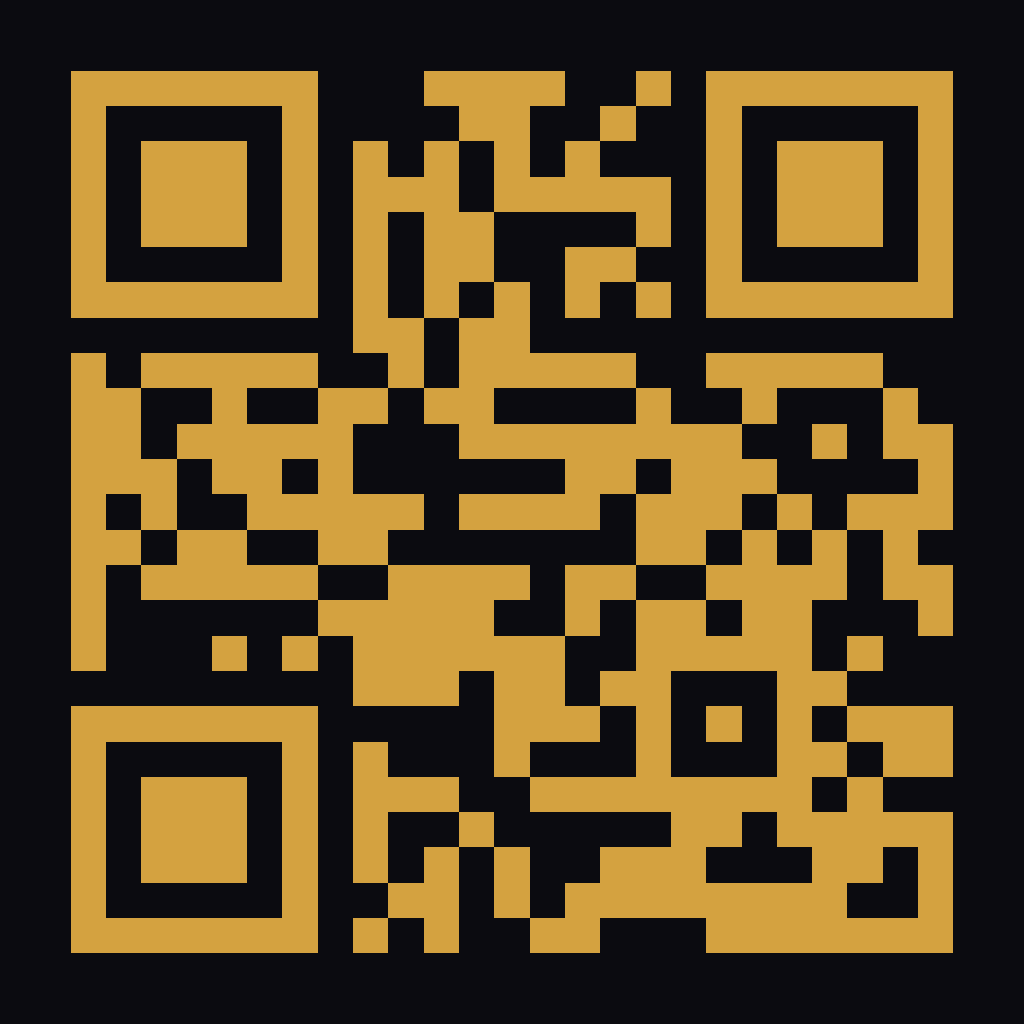
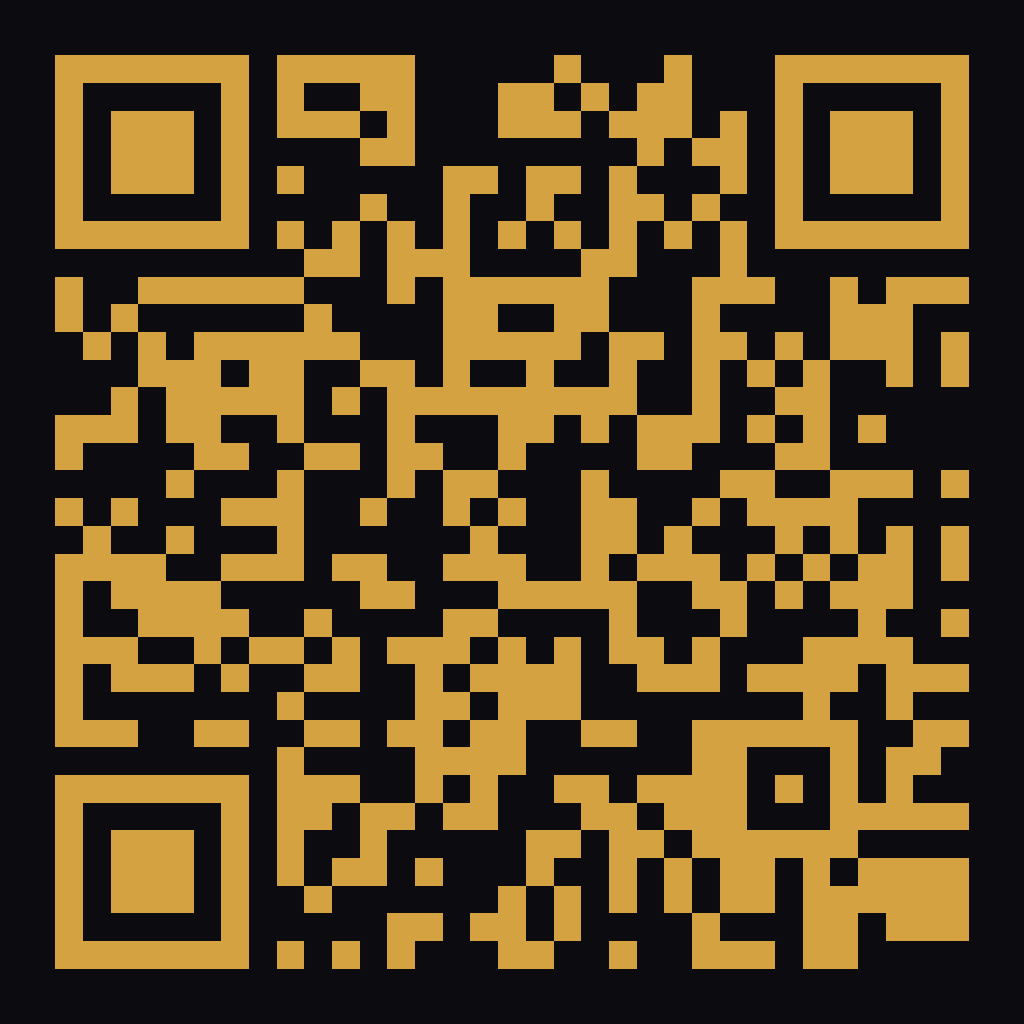
Switch QR code to Railway direct URL

diff --git a/scripts/generate-qr.ts b/scripts/generate-qr.ts
@@ -2,7 +2,7 @@ import QRCode from "qrcode";
 import sharp from "sharp";
 import { writeFileSync, readFileSync } from "fs";
 
-const url = "https://destinybridge.app";
+const url = "https://destiny-bridge-production.up.railway.app";
 
 async function main() {
   const svg = await QRCode.toString(url, {
